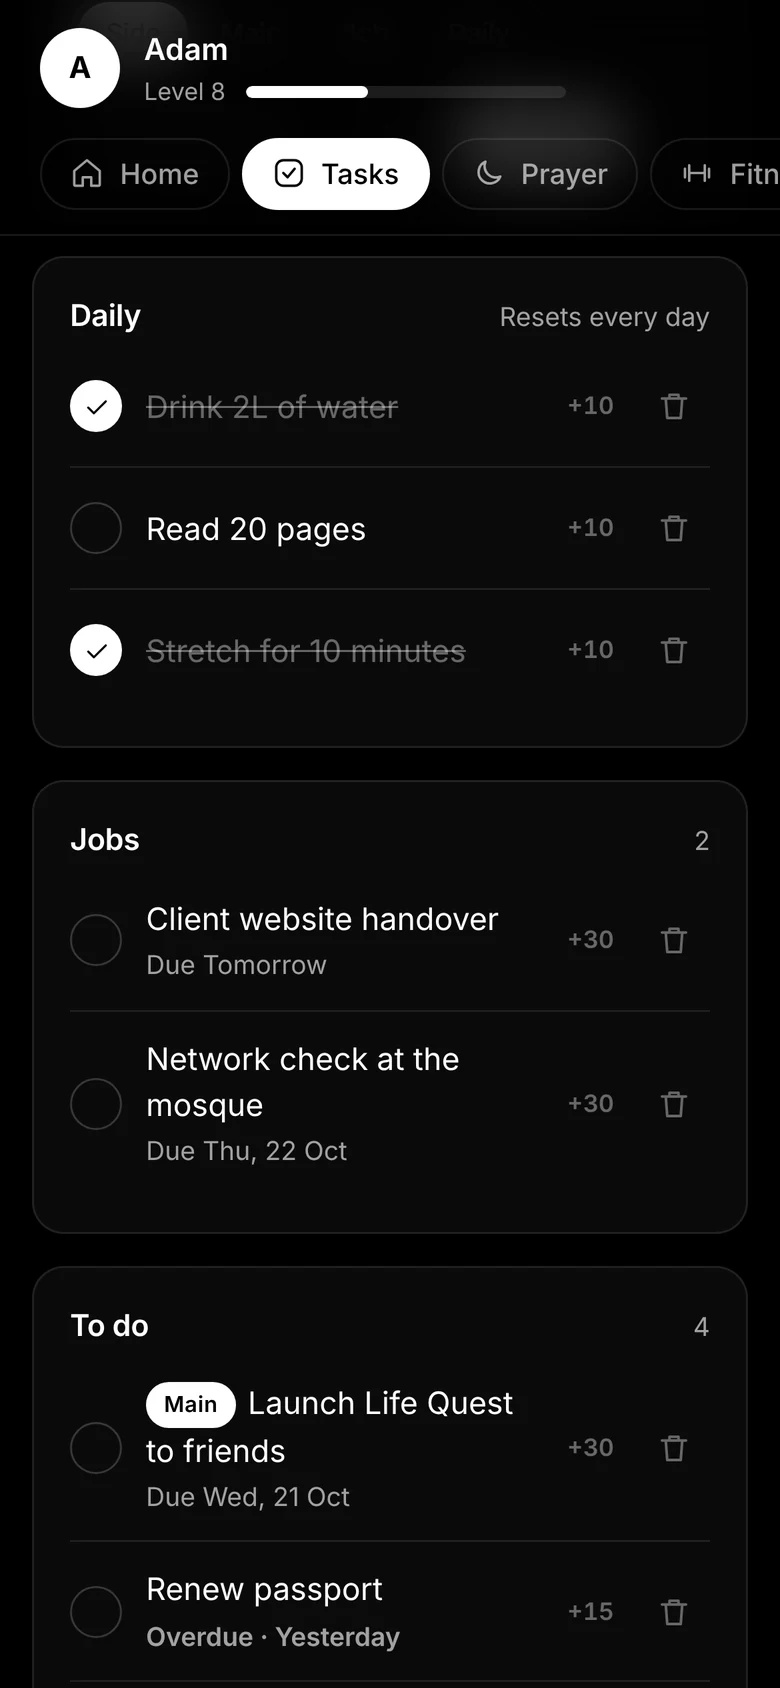
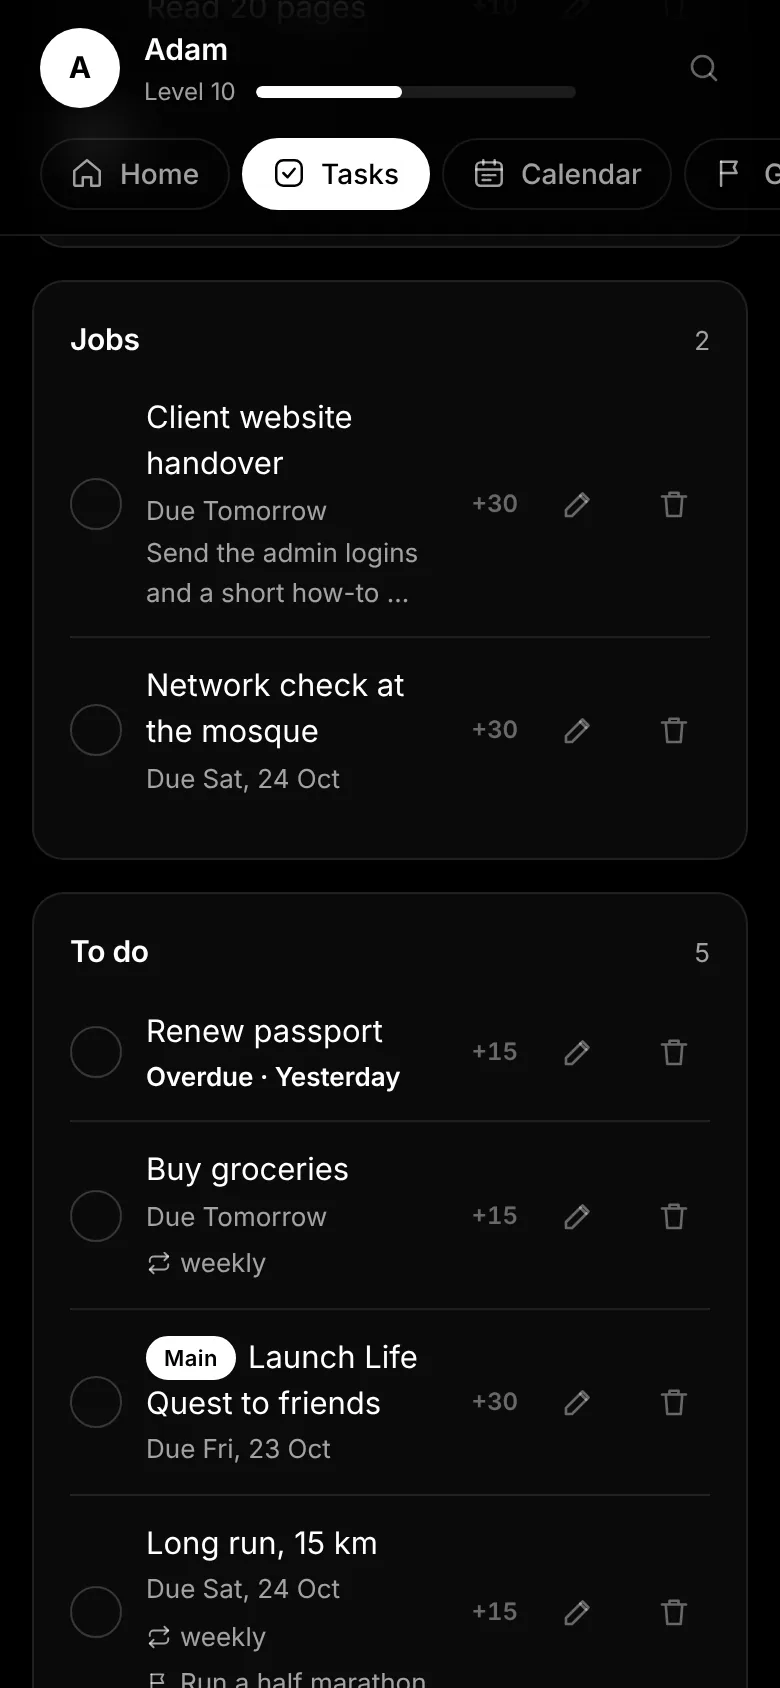
About page: 1.33, new screenshots (Home tiles, Calendar, Projects, Week in review, Tasks, Settings, desktop), updated features and privacy
Claude-Session: https://claude.ai/code/session_01XWyRxazPdnKDY2ha7DeKFt

diff --git a/about.html b/about.html
@@ -84,8 +84,8 @@ a{color:#ffffff}a:hover{color:#d4d4d4}
     </div>
     <div style="padding: 22px 16px; text-align: center; display: flex; flex-direction: column; gap: 4px; border-left: 1px solid rgba(255,255,255,.12)">
       <span style="font-size: 11px; font-weight: 600; letter-spacing: .12em; text-transform: uppercase; color: #a3a3a3">Size</span>
-      <span style="font-size: 28px; font-weight: 700; letter-spacing: -.02em">320 KB</span>
-      <span style="font-size: 13px; color: #a3a3a3">Opens in a blink</span>
+      <span style="font-size: 28px; font-weight: 700; letter-spacing: -.02em">130 KB</span>
+      <span style="font-size: 13px; color: #a3a3a3">Compressed · opens in a blink</span>
     </div>
     <div style="padding: 22px 16px; text-align: center; display: flex; flex-direction: column; gap: 4px; border-left: 1px solid rgba(255,255,255,.12)">
       <span style="font-size: 11px; font-weight: 600; letter-spacing: .12em; text-transform: uppercase; color: #a3a3a3">Works on</span>
@@ -94,7 +94,7 @@ a{color:#ffffff}a:hover{color:#d4d4d4}
     </div>
     <div style="padding: 22px 16px; text-align: center; display: flex; flex-direction: column; gap: 4px; border-left: 1px solid rgba(255,255,255,.12)">
       <span style="font-size: 11px; font-weight: 600; letter-spacing: .12em; text-transform: uppercase; color: #a3a3a3">Version</span>
-      <span style="font-size: 28px; font-weight: 700; letter-spacing: -.02em">1.31</span>
+      <span style="font-size: 28px; font-weight: 700; letter-spacing: -.02em">1.33</span>
       <span style="font-size: 13px; color: #a3a3a3">Updated 21 Oct 2026</span>
     </div>
   </section>
@@ -105,8 +105,23 @@ a{color:#ffffff}a:hover{color:#d4d4d4}
     <div class="lq-shots" style="display: flex; gap: 20px; overflow-x: auto; scroll-snap-type: x mandatory; padding-bottom: 16px; margin: 0 -24px; padding-left: 24px; padding-right: 24px">
 
       <figure style="margin: 0; flex: none; width: 272px; scroll-snap-align: start; display: flex; flex-direction: column; gap: 16px; background: #0d0d0d; border: 1px solid rgba(255,255,255,.1); border-radius: 28px; padding: 22px 16px 16px; box-sizing: border-box">
-        <figcaption style="padding: 0 6px; display: flex; flex-direction: column; gap: 4px"><span style="font-family: 'Instrument Serif', Georgia, serif; font-size: 30px; line-height: 1.05">Level up your real life</span><span style="font-size: 13px; color: #a3a3a3">Nine stats, one level, all from everyday wins.</span></figcaption>
-        <img decoding="async" fetchpriority="high" src="/img/showcase/home.webp" alt="Home screen showing level 9 and nine stat bars" style="width: 100%; aspect-ratio: 390 / 844; border-radius: 22px; border: 1px solid rgba(255,255,255,.12); display: block; object-fit: cover">
+        <figcaption style="padding: 0 6px; display: flex; flex-direction: column; gap: 4px"><span style="font-family: 'Instrument Serif', Georgia, serif; font-size: 30px; line-height: 1.05">Your day at a glance</span><span style="font-size: 13px; color: #a3a3a3">XP today, what’s due, the next prayer and your week, then nine stats and one level.</span></figcaption>
+        <img decoding="async" fetchpriority="high" src="/img/showcase/home.webp?v=3" alt="Home screen with four summary tiles above the level and stat bars" style="width: 100%; aspect-ratio: 390 / 844; border-radius: 22px; border: 1px solid rgba(255,255,255,.12); display: block; object-fit: cover">
+      </figure>
+
+      <figure style="margin: 0; flex: none; width: 272px; scroll-snap-align: start; display: flex; flex-direction: column; gap: 16px; background: #0d0d0d; border: 1px solid rgba(255,255,255,.1); border-radius: 28px; padding: 22px 16px 16px; box-sizing: border-box">
+        <figcaption style="padding: 0 6px; display: flex; flex-direction: column; gap: 4px"><span style="font-family: 'Instrument Serif', Georgia, serif; font-size: 30px; line-height: 1.05">Everything, by date</span><span style="font-size: 13px; color: #a3a3a3">Your events, what’s due across the app, and your phone calendar.</span></figcaption>
+        <img loading="lazy" decoding="async" src="/img/showcase/calendar.webp" alt="Calendar in the Lavender theme with a month grid, coloured dots and today’s agenda" style="width: 100%; aspect-ratio: 390 / 844; border-radius: 22px; border: 1px solid rgba(255,255,255,.12); display: block; object-fit: cover">
+      </figure>
+
+      <figure style="margin: 0; flex: none; width: 272px; scroll-snap-align: start; display: flex; flex-direction: column; gap: 16px; background: #0d0d0d; border: 1px solid rgba(255,255,255,.1); border-radius: 28px; padding: 22px 16px 16px; box-sizing: border-box">
+        <figcaption style="padding: 0 6px; display: flex; flex-direction: column; gap: 4px"><span style="font-family: 'Instrument Serif', Georgia, serif; font-size: 30px; line-height: 1.05">Plan it together</span><span style="font-size: 13px; color: #a3a3a3">Shared projects with tasks, notes, split costs and photos.</span></figcaption>
+        <img loading="lazy" decoding="async" src="/img/showcase/projects.webp" alt="A shared project in the Sage theme with tasks assigned to Aisyah, Hafiz and you" style="width: 100%; aspect-ratio: 390 / 844; border-radius: 22px; border: 1px solid rgba(255,255,255,.12); display: block; object-fit: cover">
+      </figure>
+
+      <figure style="margin: 0; flex: none; width: 272px; scroll-snap-align: start; display: flex; flex-direction: column; gap: 16px; background: #0d0d0d; border: 1px solid rgba(255,255,255,.1); border-radius: 28px; padding: 22px 16px 16px; box-sizing: border-box">
+        <figcaption style="padding: 0 6px; display: flex; flex-direction: column; gap: 4px"><span style="font-family: 'Instrument Serif', Georgia, serif; font-size: 30px; line-height: 1.05">Look back on your week</span><span style="font-size: 13px; color: #a3a3a3">XP day by day, highlights and every section’s numbers.</span></figcaption>
+        <img loading="lazy" decoding="async" src="/img/showcase/review.webp" alt="Week in review in the Peach theme with a bar chart of XP per day" style="width: 100%; aspect-ratio: 390 / 844; border-radius: 22px; border: 1px solid rgba(255,255,255,.12); display: block; object-fit: cover">
       </figure>
 
       <figure style="margin: 0; flex: none; width: 272px; scroll-snap-align: start; display: flex; flex-direction: column; gap: 16px; background: #0d0d0d; border: 1px solid rgba(255,255,255,.1); border-radius: 28px; padding: 22px 16px 16px; box-sizing: border-box">
@@ -125,8 +140,8 @@ a{color:#ffffff}a:hover{color:#d4d4d4}
       </figure>
 
       <figure style="margin: 0; flex: none; width: 272px; scroll-snap-align: start; display: flex; flex-direction: column; gap: 16px; background: #0d0d0d; border: 1px solid rgba(255,255,255,.1); border-radius: 28px; padding: 22px 16px 16px; box-sizing: border-box">
-        <figcaption style="padding: 0 6px; display: flex; flex-direction: column; gap: 4px"><span style="font-family: 'Instrument Serif', Georgia, serif; font-size: 30px; line-height: 1.05">Habits, jobs and to-dos</span><span style="font-size: 13px; color: #a3a3a3">Daily habits reset each morning. Jobs get their own list.</span></figcaption>
-        <img loading="lazy" decoding="async" src="/img/showcase/tasks.webp" alt="Tasks page with daily habits, jobs and a to-do list" style="width: 100%; aspect-ratio: 390 / 844; border-radius: 22px; border: 1px solid rgba(255,255,255,.12); display: block; object-fit: cover">
+        <figcaption style="padding: 0 6px; display: flex; flex-direction: column; gap: 4px"><span style="font-family: 'Instrument Serif', Georgia, serif; font-size: 30px; line-height: 1.05">Habits, jobs and to-dos</span><span style="font-size: 13px; color: #a3a3a3">Repeats, notes and goal links. Soonest due on top.</span></figcaption>
+        <img loading="lazy" decoding="async" src="/img/showcase/tasks.webp?v=3" alt="Tasks page with jobs and a to-do list showing repeats, a note and a goal link" style="width: 100%; aspect-ratio: 390 / 844; border-radius: 22px; border: 1px solid rgba(255,255,255,.12); display: block; object-fit: cover">
       </figure>
 
       <figure style="margin: 0; flex: none; width: 272px; scroll-snap-align: start; display: flex; flex-direction: column; gap: 16px; background: #0d0d0d; border: 1px solid rgba(255,255,255,.1); border-radius: 28px; padding: 22px 16px 16px; box-sizing: border-box">
@@ -180,8 +195,8 @@ a{color:#ffffff}a:hover{color:#d4d4d4}
       </figure>
 
       <figure style="margin: 0; flex: none; width: 272px; scroll-snap-align: start; display: flex; flex-direction: column; gap: 16px; background: #0d0d0d; border: 1px solid rgba(255,255,255,.1); border-radius: 28px; padding: 22px 16px 16px; box-sizing: border-box">
-        <figcaption style="padding: 0 6px; display: flex; flex-direction: column; gap: 4px"><span style="font-family: 'Instrument Serif', Georgia, serif; font-size: 30px; line-height: 1.05">Make it yours</span><span style="font-size: 13px; color: #a3a3a3">Switch sections on or off and put them in your order.</span></figcaption>
-        <img loading="lazy" decoding="async" src="/img/showcase/settings.webp" alt="Settings page with section switches and reorder arrows" style="width: 100%; aspect-ratio: 390 / 844; border-radius: 22px; border: 1px solid rgba(255,255,255,.12); display: block; object-fit: cover">
+        <figcaption style="padding: 0 6px; display: flex; flex-direction: column; gap: 4px"><span style="font-family: 'Instrument Serif', Georgia, serif; font-size: 30px; line-height: 1.05">Make it yours</span><span style="font-size: 13px; color: #a3a3a3">Pick a theme, choose your sections, send feedback.</span></figcaption>
+        <img loading="lazy" decoding="async" src="/img/showcase/settings.webp?v=3" alt="Settings menu in the Dusk theme: Appearance, Sections, Profile, What’s new, Feedback and Account" style="width: 100%; aspect-ratio: 390 / 844; border-radius: 22px; border: 1px solid rgba(255,255,255,.12); display: block; object-fit: cover">
       </figure>
 
     </div>
@@ -203,20 +218,18 @@ a{color:#ffffff}a:hover{color:#d4d4d4}
   <section aria-labelledby="lq-new" style="display: flex; flex-direction: column; gap: 18px; padding: 32px; border-radius: 24px; background: #0d0d0d; border: 1px solid rgba(255,255,255,.1)">
     <div style="display: flex; flex-wrap: wrap; justify-content: space-between; align-items: baseline; gap: 8px">
       <h2 id="lq-new" style="margin: 0; font-size: 26px; font-weight: 700; letter-spacing: -.02em">What's New</h2>
-      <span style="font-size: 14px; color: #a3a3a3">Version 1.31 · 21 Oct 2026</span>
+      <span style="font-size: 14px; color: #a3a3a3">Version 1.33 · 21 Oct 2026</span>
     </div>
     <ul style="margin: 0; padding-left: 20px; display: flex; flex-direction: column; gap: 8px; color: #d4d4d4">
-      <li>A simpler start: choose what you want to track when you sign up. Life Quest begins with seven sections and you add more any time.</li>
-      <li>Photos in shared projects, a Feedback box in Settings, and tasks that repeat every day.</li>
-      <li>Calendar: your events, everything due across Life Quest, and your Google, iPhone or Outlook calendar in one month view.</li>
-      <li>Shared projects: plan with friends and family. Tasks with who it’s for, notes, and costs split equally. Invite people with a link.</li>
-      <li>Week in review: your XP day by day, highlights and every section’s numbers for the week, Monday to Sunday.</li>
-      <li>Search everything: one box that finds a task, note, book, quote or person across all your sections.</li>
-      <li>Repeating tasks: every week, every 2 weeks, every month or every year. Tick one off and the next appears. Edit any task with the pencil.</li>
-      <li>Tasks for goals: link tasks to a goal and they count toward its progress.</li>
-      <li>A summary up top on Home: XP today, what’s due, the next prayer and your week so far.</li>
+      <li>Watchlist tracks the season and episode you’re up to for series, anime and documentaries.</li>
+      <li>Tasks can have notes, and can repeat every day as well as weekly, monthly or yearly.</li>
+      <li>A simpler start: choose what to track when you sign up. Settings is now a tidy menu with its own pages.</li>
+      <li>Shared projects: plan with friends and family, with tasks, notes, split costs and photos. Invite people with a link.</li>
+      <li>Calendar: your events, everything due in Life Quest, and your Google, iPhone or Outlook calendar together.</li>
+      <li>Send feedback from Settings. It goes straight to the person who makes Life Quest.</li>
     </ul>
     <div style="display: flex; flex-wrap: wrap; gap: 8px; padding-top: 6px">
+      <span style="font-size: 13px; padding: 6px 12px; border-radius: 999px; border: 1px solid rgba(255,255,255,.16); color: #d4d4d4">1.23 Week in review &amp; search</span>
       <span style="font-size: 13px; padding: 6px 12px; border-radius: 999px; border: 1px solid rgba(255,255,255,.16); color: #d4d4d4">1.21 Swipe between sections</span>
       <span style="font-size: 13px; padding: 6px 12px; border-radius: 999px; border: 1px solid rgba(255,255,255,.16); color: #d4d4d4">1.20 15 themes</span>
       <span style="font-size: 13px; padding: 6px 12px; border-radius: 999px; border: 1px solid rgba(255,255,255,.16); color: #d4d4d4">1.19 Music &amp; Last.fm</span>
@@ -242,7 +255,7 @@ a{color:#ffffff}a:hover{color:#d4d4d4}
       <div class="lq-feature" style="display: flex; flex-direction: column; gap: 10px; padding: 22px; border-radius: 18px; background: #0d0d0d; border: 1px solid rgba(255,255,255,.1)">
         <svg width="26" height="26" viewBox="0 0 24 24" fill="none" stroke="#ffffff" stroke-width="1.75" stroke-linecap="round" stroke-linejoin="round" aria-hidden="true"><rect x="3" y="3" width="18" height="18" rx="5"></rect><path d="m8 12 3 3 5-6"></path></svg>
         <h3 style="margin: 0; font-size: 18px; font-weight: 600">Tasks</h3>
-        <p style="margin: 0; font-size: 14px; color: #a3a3a3">To-dos, jobs with due dates, daily habits that reset every morning, and tasks that repeat weekly, monthly or yearly.</p>
+        <p style="margin: 0; font-size: 14px; color: #a3a3a3">To-dos and jobs with due dates and notes, daily habits that reset each morning, and tasks that repeat every day, week, month or year.</p>
       </div>
       <div class="lq-feature" style="display: flex; flex-direction: column; gap: 10px; padding: 22px; border-radius: 18px; background: #0d0d0d; border: 1px solid rgba(255,255,255,.1)">
         <svg width="26" height="26" viewBox="0 0 24 24" fill="none" stroke="#ffffff" stroke-width="1.75" stroke-linecap="round" stroke-linejoin="round" aria-hidden="true"><rect x="3" y="4.5" width="18" height="16.5" rx="3"></rect><path d="M3 9.5h18M8 3v3M16 3v3"></path><path d="M7.5 13.5h2M11 13.5h2M14.5 13.5h2M7.5 17h2M11 17h2"></path></svg>
@@ -257,7 +270,7 @@ a{color:#ffffff}a:hover{color:#d4d4d4}
       <div class="lq-feature" style="display: flex; flex-direction: column; gap: 10px; padding: 22px; border-radius: 18px; background: #0d0d0d; border: 1px solid rgba(255,255,255,.1)">
         <svg width="26" height="26" viewBox="0 0 24 24" fill="none" stroke="#ffffff" stroke-width="1.75" stroke-linecap="round" stroke-linejoin="round" aria-hidden="true"><path d="M3 7.5A2.5 2.5 0 0 1 5.5 5H9l2 2.5h7.5A2.5 2.5 0 0 1 21 10v7.5a2.5 2.5 0 0 1-2.5 2.5h-13A2.5 2.5 0 0 1 3 17.5z"></path><circle cx="10" cy="13.5" r="1.8"></circle><circle cx="15" cy="13.5" r="1.8"></circle></svg>
         <h3 style="margin: 0; font-size: 18px; font-weight: 600">Projects</h3>
-        <p style="margin: 0; font-size: 14px; color: #a3a3a3">Shared with people you invite: tasks with who it’s for, notes, and costs split equally. Only members can see it.</p>
+        <p style="margin: 0; font-size: 14px; color: #a3a3a3">Shared with people you invite: tasks with who it’s for, notes, photos, and costs split equally. Only members can see it.</p>
       </div>
       <div class="lq-feature" style="display: flex; flex-direction: column; gap: 10px; padding: 22px; border-radius: 18px; background: #0d0d0d; border: 1px solid rgba(255,255,255,.1)">
         <svg width="26" height="26" viewBox="0 0 24 24" fill="none" stroke="#ffffff" stroke-width="1.75" stroke-linecap="round" stroke-linejoin="round" aria-hidden="true"><rect x="3" y="7" width="18" height="13" rx="2.5"></rect><path d="M8.5 7V5.5A1.5 1.5 0 0 1 10 4h4a1.5 1.5 0 0 1 1.5 1.5V7"></path><path d="M3 12.5h18"></path></svg>
@@ -327,7 +340,7 @@ a{color:#ffffff}a:hover{color:#d4d4d4}
       <div class="lq-feature" style="display: flex; flex-direction: column; gap: 10px; padding: 22px; border-radius: 18px; background: #0d0d0d; border: 1px solid rgba(255,255,255,.1)">
         <svg width="26" height="26" viewBox="0 0 24 24" fill="none" stroke="#ffffff" stroke-width="1.75" stroke-linecap="round" stroke-linejoin="round" aria-hidden="true"><rect x="3" y="5" width="18" height="12" rx="2.5"></rect><path d="M8 21h8M12 17v4"></path><path d="m10.5 8.8 4 2.2-4 2.2z"></path></svg>
         <h3 style="margin: 0; font-size: 18px; font-weight: 600">Watchlist</h3>
-        <p style="margin: 0; font-size: 14px; color: #a3a3a3">Search or paste an IMDb link for posters and details, see where it’s streaming, and keep a dated Watched list.</p>
+        <p style="margin: 0; font-size: 14px; color: #a3a3a3">Search or paste an IMDb link for posters and details, see where it’s streaming, track the episode you’re on, and keep a dated Watched list.</p>
       </div>
       <div class="lq-feature" style="display: flex; flex-direction: column; gap: 10px; padding: 22px; border-radius: 18px; background: #0d0d0d; border: 1px solid rgba(255,255,255,.1)">
         <svg width="26" height="26" viewBox="0 0 24 24" fill="none" stroke="#ffffff" stroke-width="1.75" stroke-linecap="round" stroke-linejoin="round" aria-hidden="true"><path d="M9 18V5l11-2v13"></path><circle cx="6.5" cy="18" r="2.5"></circle><circle cx="17.5" cy="16" r="2.5"></circle></svg>
@@ -363,7 +376,7 @@ a{color:#ffffff}a:hover{color:#d4d4d4}
       <h2 id="lq-desk" style="margin: 0; font-family: 'Instrument Serif', Georgia, serif; font-weight: 400; font-size: 44px; line-height: 1.05">Just as good on a big screen.</h2>
       <p style="margin: 0; color: #a3a3a3; font-size: 16px">Same account, same data. Start on your phone, pick it up on your laptop.</p>
     </div>
-    <img loading="lazy" decoding="async" src="/img/showcase/desktop.webp" alt="Life Quest on a laptop: sidebar menu with the Home dashboard" style="width: 100%; aspect-ratio: 16 / 10; object-fit: cover; object-position: top; border-radius: 22px; border: 1px solid rgba(255,255,255,.14); display: block">
+    <img loading="lazy" decoding="async" src="/img/showcase/desktop.webp?v=3" alt="Life Quest on a laptop: sidebar menu with the Home dashboard" style="width: 100%; aspect-ratio: 16 / 10; object-fit: cover; object-position: top; border-radius: 22px; border: 1px solid rgba(255,255,255,.14); display: block">
   </section>
 
   <!-- ===== Privacy ===== -->
@@ -373,7 +386,7 @@ a{color:#ffffff}a:hover{color:#d4d4d4}
       <div style="display: flex; flex-direction: column; gap: 10px; padding: 24px; border-radius: 18px; border: 1px solid rgba(255,255,255,.14)">
         <svg width="26" height="26" viewBox="0 0 24 24" fill="none" stroke="#ffffff" stroke-width="1.75" stroke-linecap="round" stroke-linejoin="round" aria-hidden="true"><rect x="4" y="10" width="16" height="11" rx="2"></rect><path d="M8 10V7a4 4 0 0 1 8 0v3"></path></svg>
         <h3 style="margin: 0; font-size: 18px; font-weight: 600">Locked to your account</h3>
-        <p style="margin: 0; font-size: 14px; color: #a3a3a3">The database itself only lets each account read and write its own entries.</p>
+        <p style="margin: 0; font-size: 14px; color: #a3a3a3">The database itself only lets each account read and write its own entries. Shared projects are visible only to the people you invite.</p>
       </div>
       <div style="display: flex; flex-direction: column; gap: 10px; padding: 24px; border-radius: 18px; border: 1px solid rgba(255,255,255,.14)">
         <svg width="26" height="26" viewBox="0 0 24 24" fill="none" stroke="#ffffff" stroke-width="1.75" stroke-linecap="round" stroke-linejoin="round" aria-hidden="true"><circle cx="12" cy="12" r="9"></circle><path d="M5.6 5.6 18.4 18.4"></path></svg>
